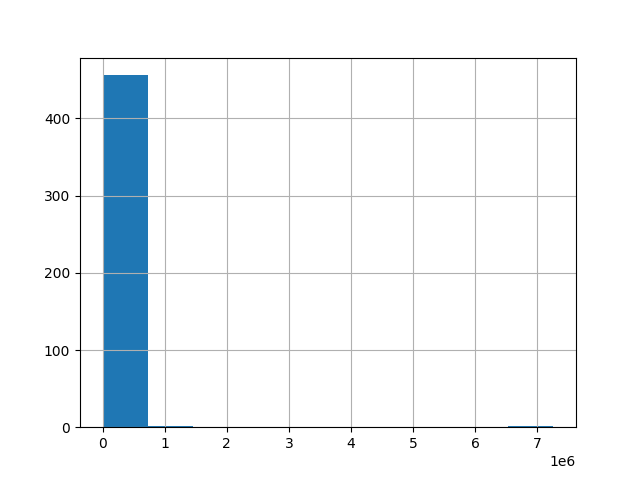
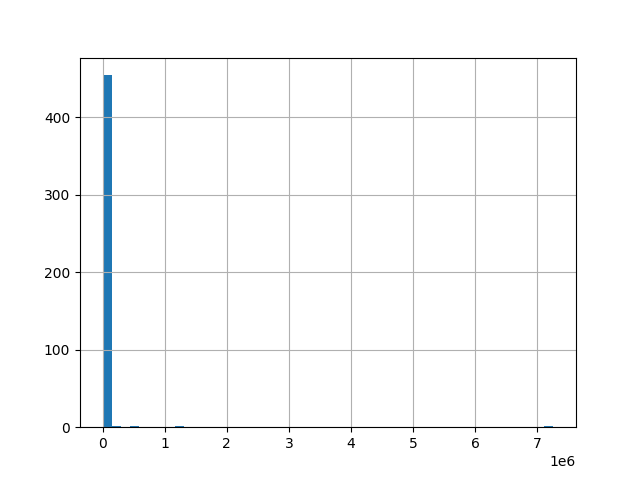
Render project membership count distributions

Changed region(s): [[0.0625, 0.1562, 0.9062, 0.9062], [0.0625, 0.7188, 0.125, 0.75]]

diff --git a/analyze.py b/analyze.py
@@ -61,11 +61,12 @@ if __name__ == '__main__':
     project_membership_count_dist_img_path = 'figures/project_membership_count_dist.png'
     coverage_boxplot_img_path = 'figures/coverage_boxplot.png'
 
-    """
     # Produce a histogram illustrating the distribution of project member counts
     analyze_project_member_count(
         project_membership_count_dist_img_path, project_membership_count_dist_path)
+    
     """
-
     # Produce a boxplot illustrating project test coverage by language
     analyze_coverage(project_coverage_path, coverage_boxplot_img_path)
+    """
+

diff --git a/plot.py b/plot.py
@@ -45,7 +45,7 @@ def plot_value_counts_histogram(value_counts: pd.Series, output_filename: Output
     """
     Build a histogram to visualize a pandas value_counts() series.
     """
-    value_counts.hist()
+    value_counts.hist(bins=50)
 
     plt.show()
     if output_filename is not None:
